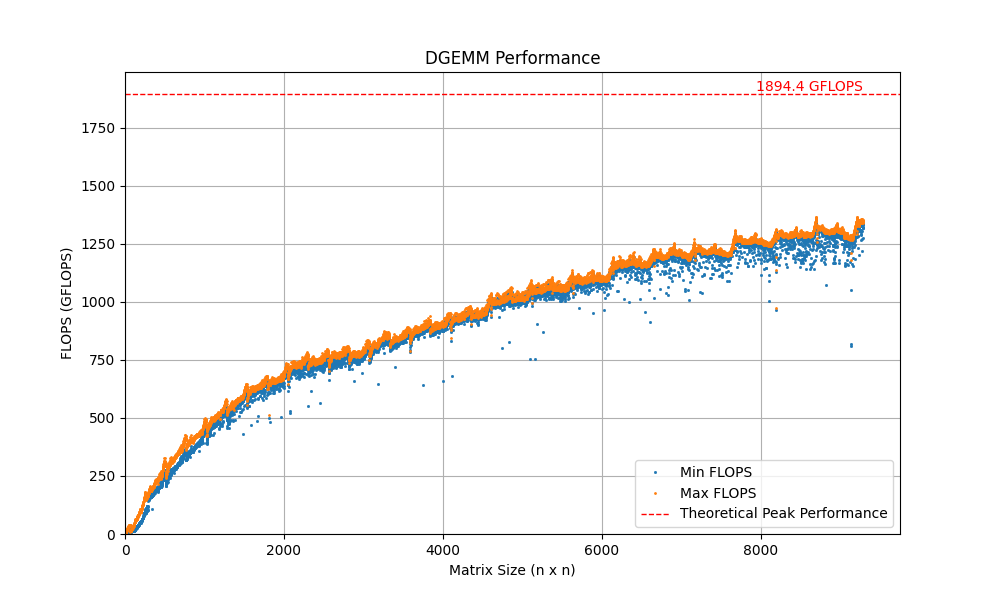
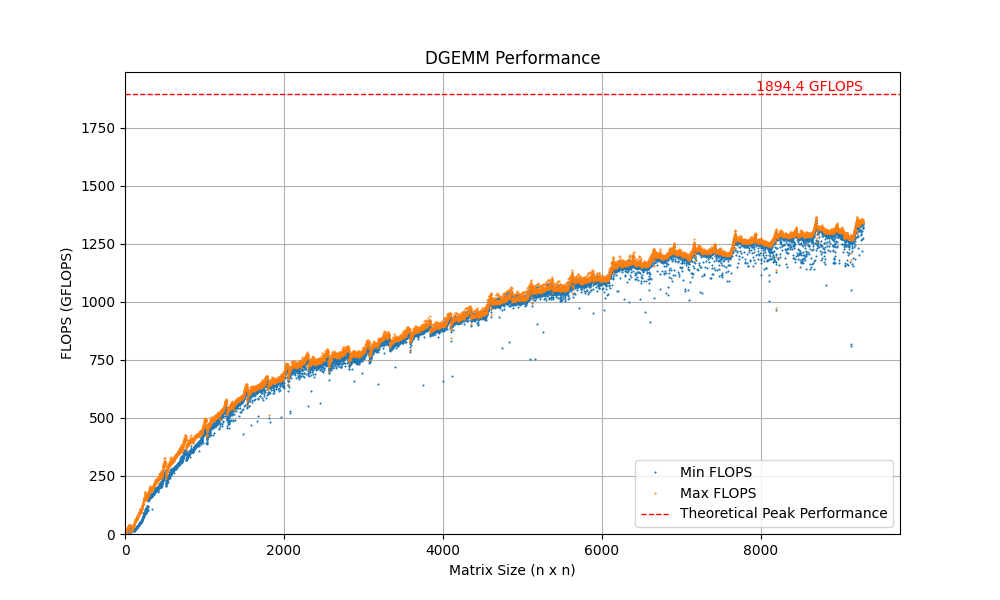
.

Changed region(s): [[0.186, 0.36, 0.868, 0.75], [0.155, 0.75, 0.186, 0.81], [0.124, 0.84, 0.155, 0.87]]

diff --git a/dgemm_benchmark/dgemm_benchmark_plot.py b/dgemm_benchmark/dgemm_benchmark_plot.py
@@ -13,8 +13,8 @@ df["minflops"] /= 1000
 
 # プロットの作成
 plt.figure(figsize=(10, 6))
-plt.plot(df["n"], df["minflops"], label="Min FLOPS", marker='s', markersize=1, linestyle='None')
-plt.plot(df["n"], df["maxflops"], label="Max FLOPS", marker='o', markersize=1, linestyle='None')
+plt.plot(df["n"], df["minflops"], label="Min FLOPS", marker='s', markersize=0.5, linestyle='None')
+plt.plot(df["n"], df["maxflops"], label="Max FLOPS", marker='o', markersize=0.5, linestyle='None')
 
 # Theoretical Peak Performance
 peak_performance = 1894.4
